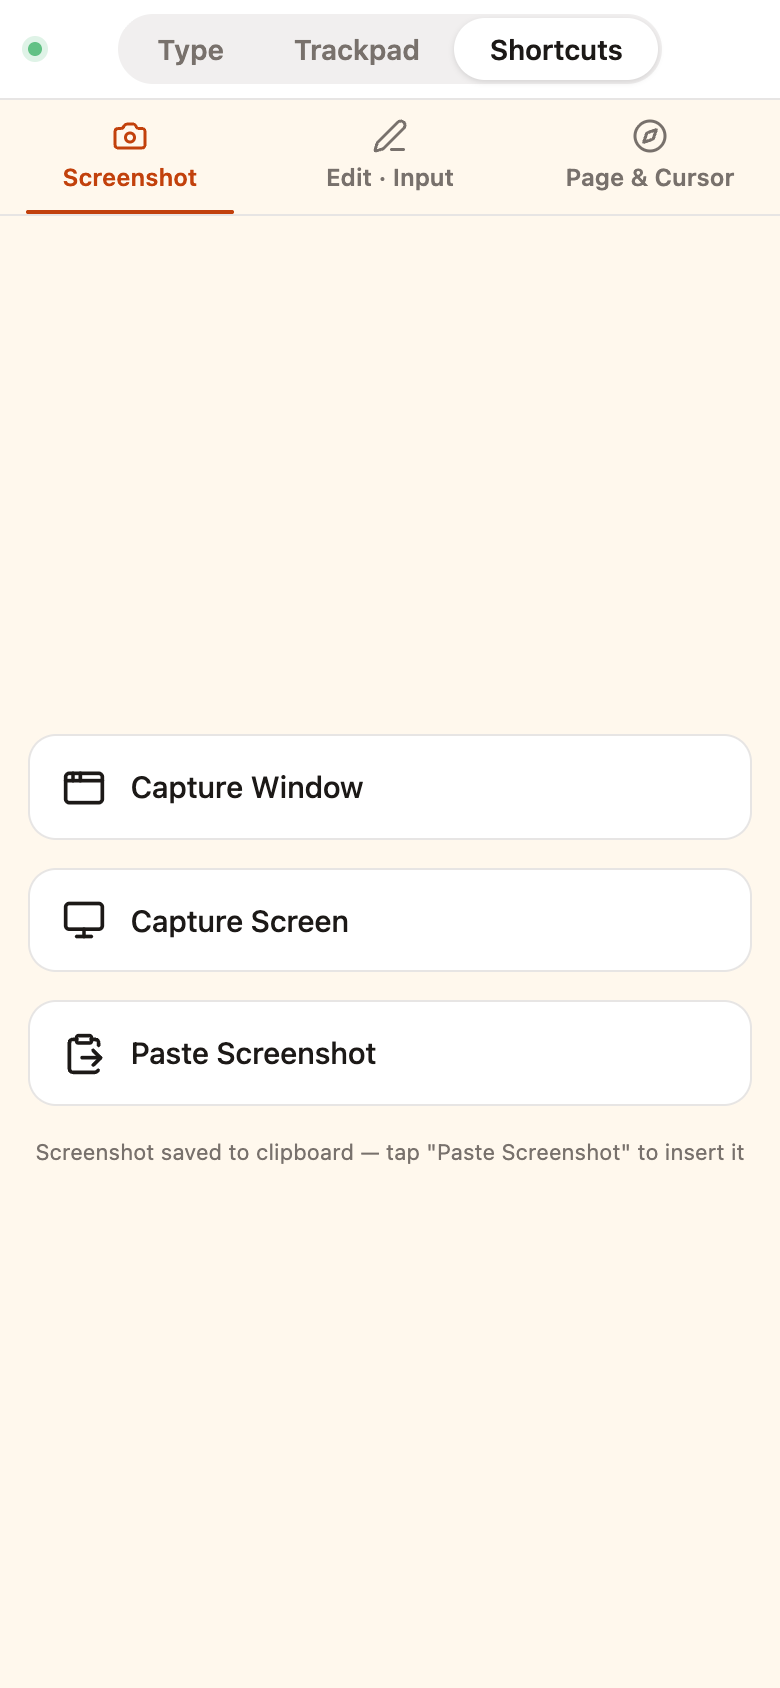
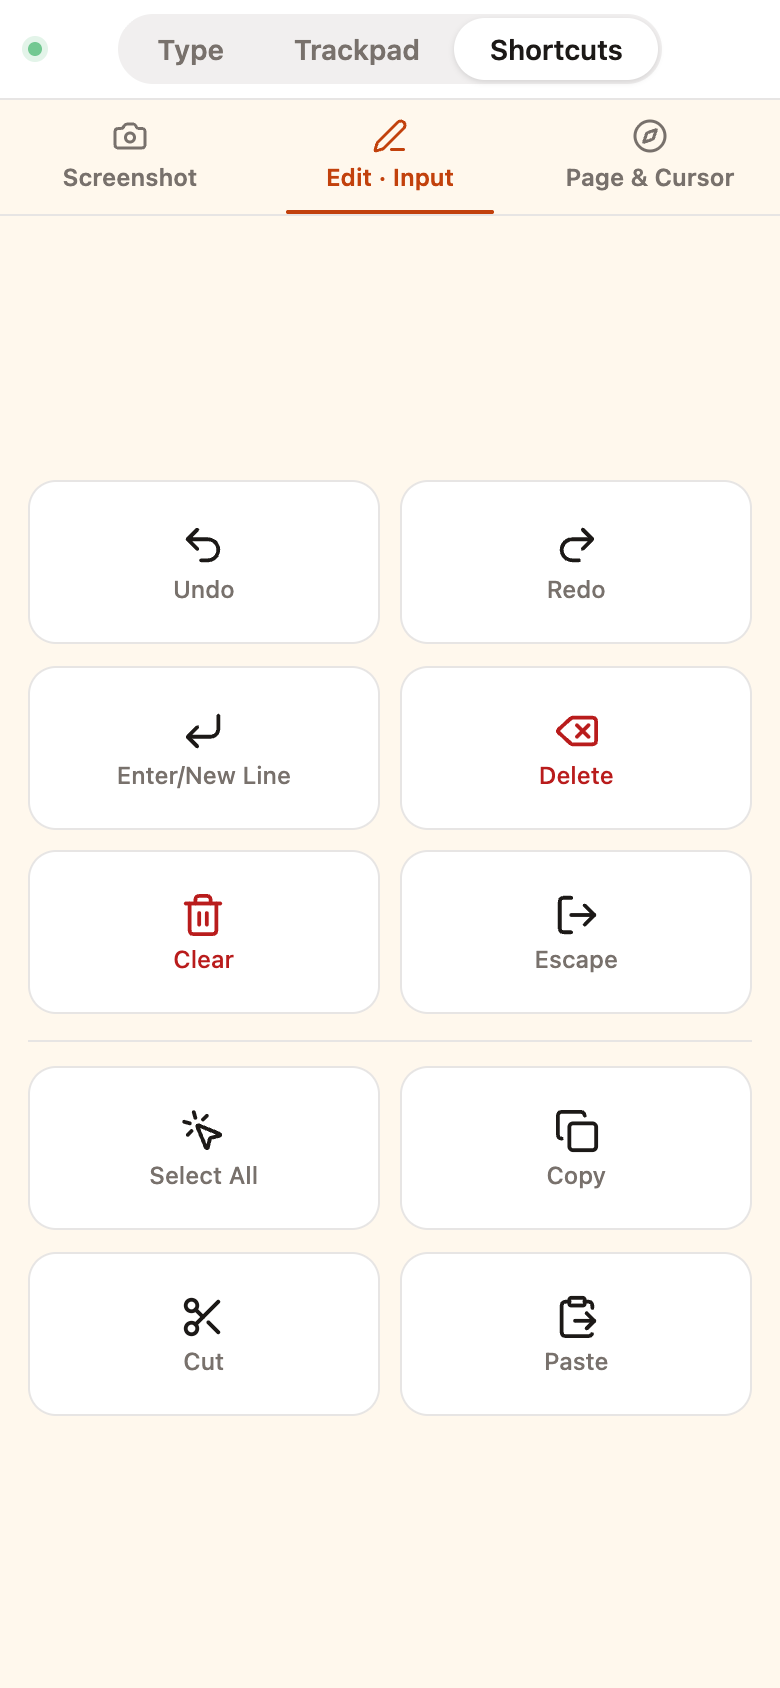
docs(blog): fix shortcut key group screenshot content

diff --git a/docs/TECH_DESIGN/README.md b/docs/TECH_DESIGN/README.md
@@ -35,5 +35,6 @@
 ## 最近更新（2026-05-11）
 
 - 博客截图技术方案增强：采用自动化截图脚本批量采集手机端多状态画面（打字文本/图片/图文、触控板主界面/设置、快捷键三分组）。
+- 快捷键分组截图细化：脚本需显式切换分组 tab 并分别导出 Screenshot / Edit / Nav 三张图，避免坐标点击导致重复画面。
 - 双语截图策略：通过 `lang=zh|en` 参数分别生成中文与英文版本截图，确保文章语言与界面语言一致。
 - 排版实现约定：博客正文使用单行多图布局展示同一模式下的状态对比，减少读者滚动成本。

diff --git a/docs/REQUIREMENTS/README.md b/docs/REQUIREMENTS/README.md
@@ -32,5 +32,6 @@
 
 - 博客内容增强：中英文博客顶部补充官网与 GitHub 仓库入口，方便读者从文章直接跳转。
 - 截图需求增强：手机端三种模式（打字 / 触控板 / 快捷键）补充多状态截图。
+- 快捷键截图约束：Screenshot / Edit & Input / Page & Cursor 三个分组必须分别截图，不可复用同一分组画面。
 - 文案呈现约定：同一模式下的多状态截图按单行并排展示，提升可读性与对比效率。
 - 语言一致性：中文博客使用中文界面截图，英文博客使用英文界面截图。
